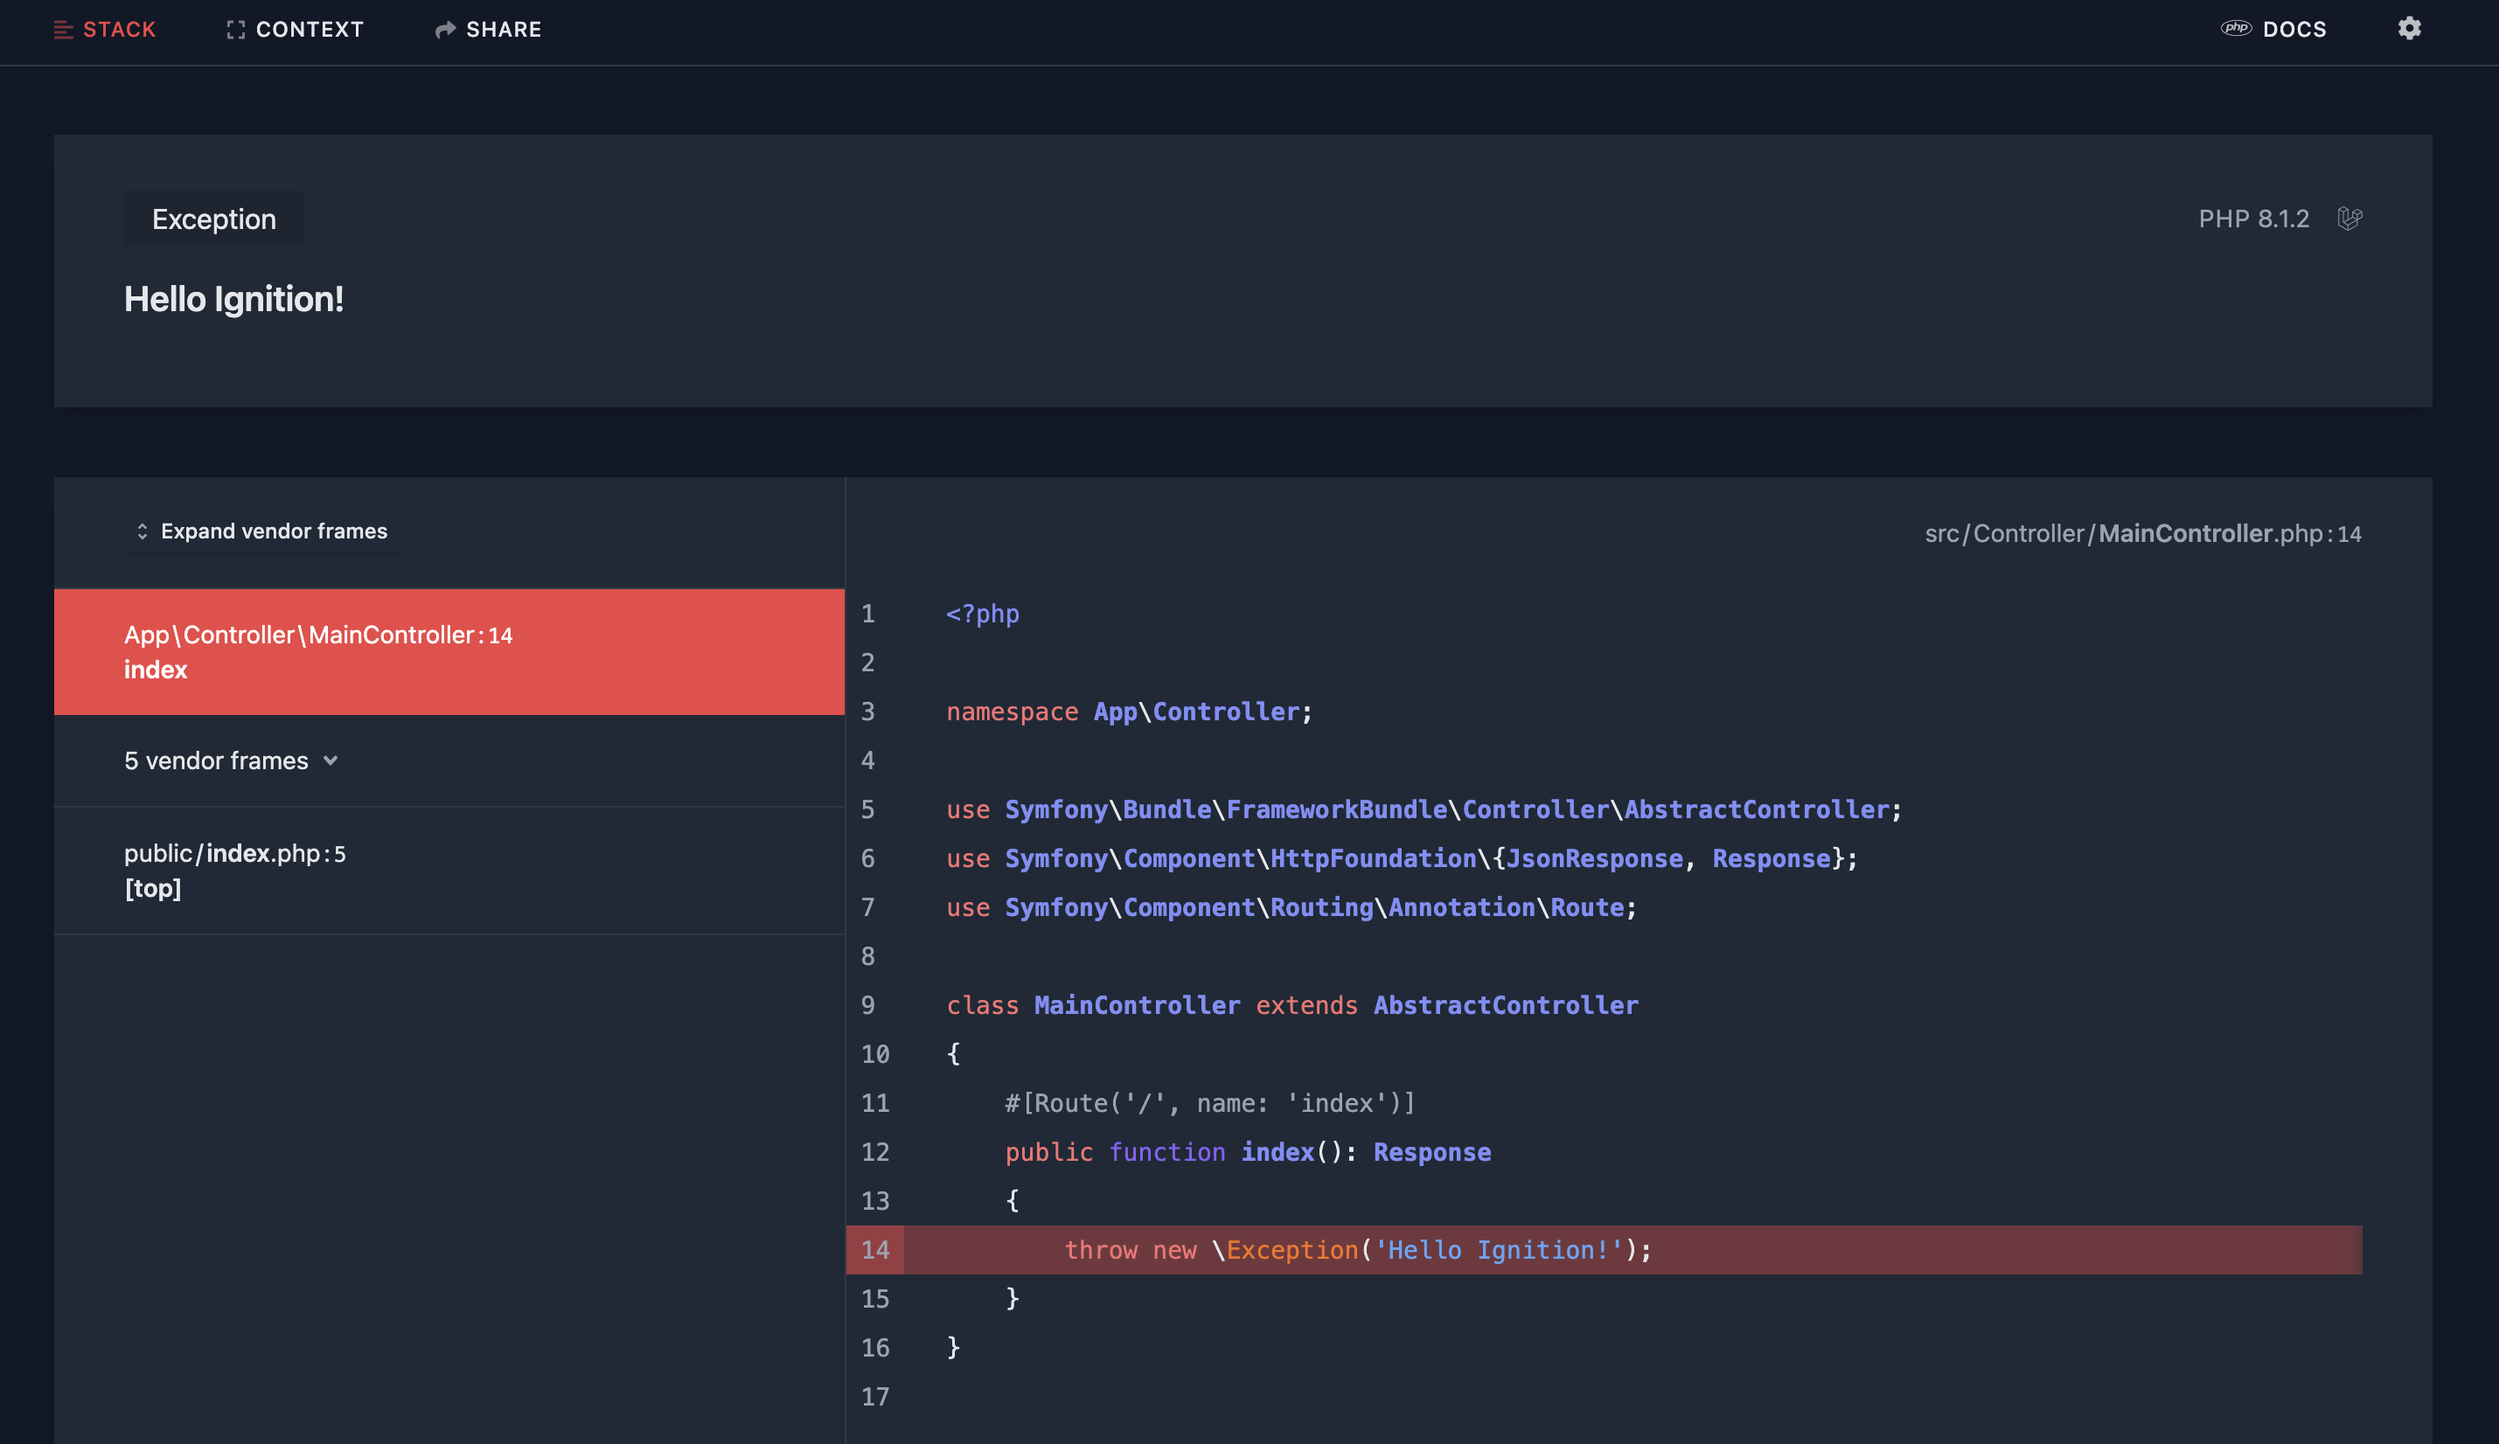
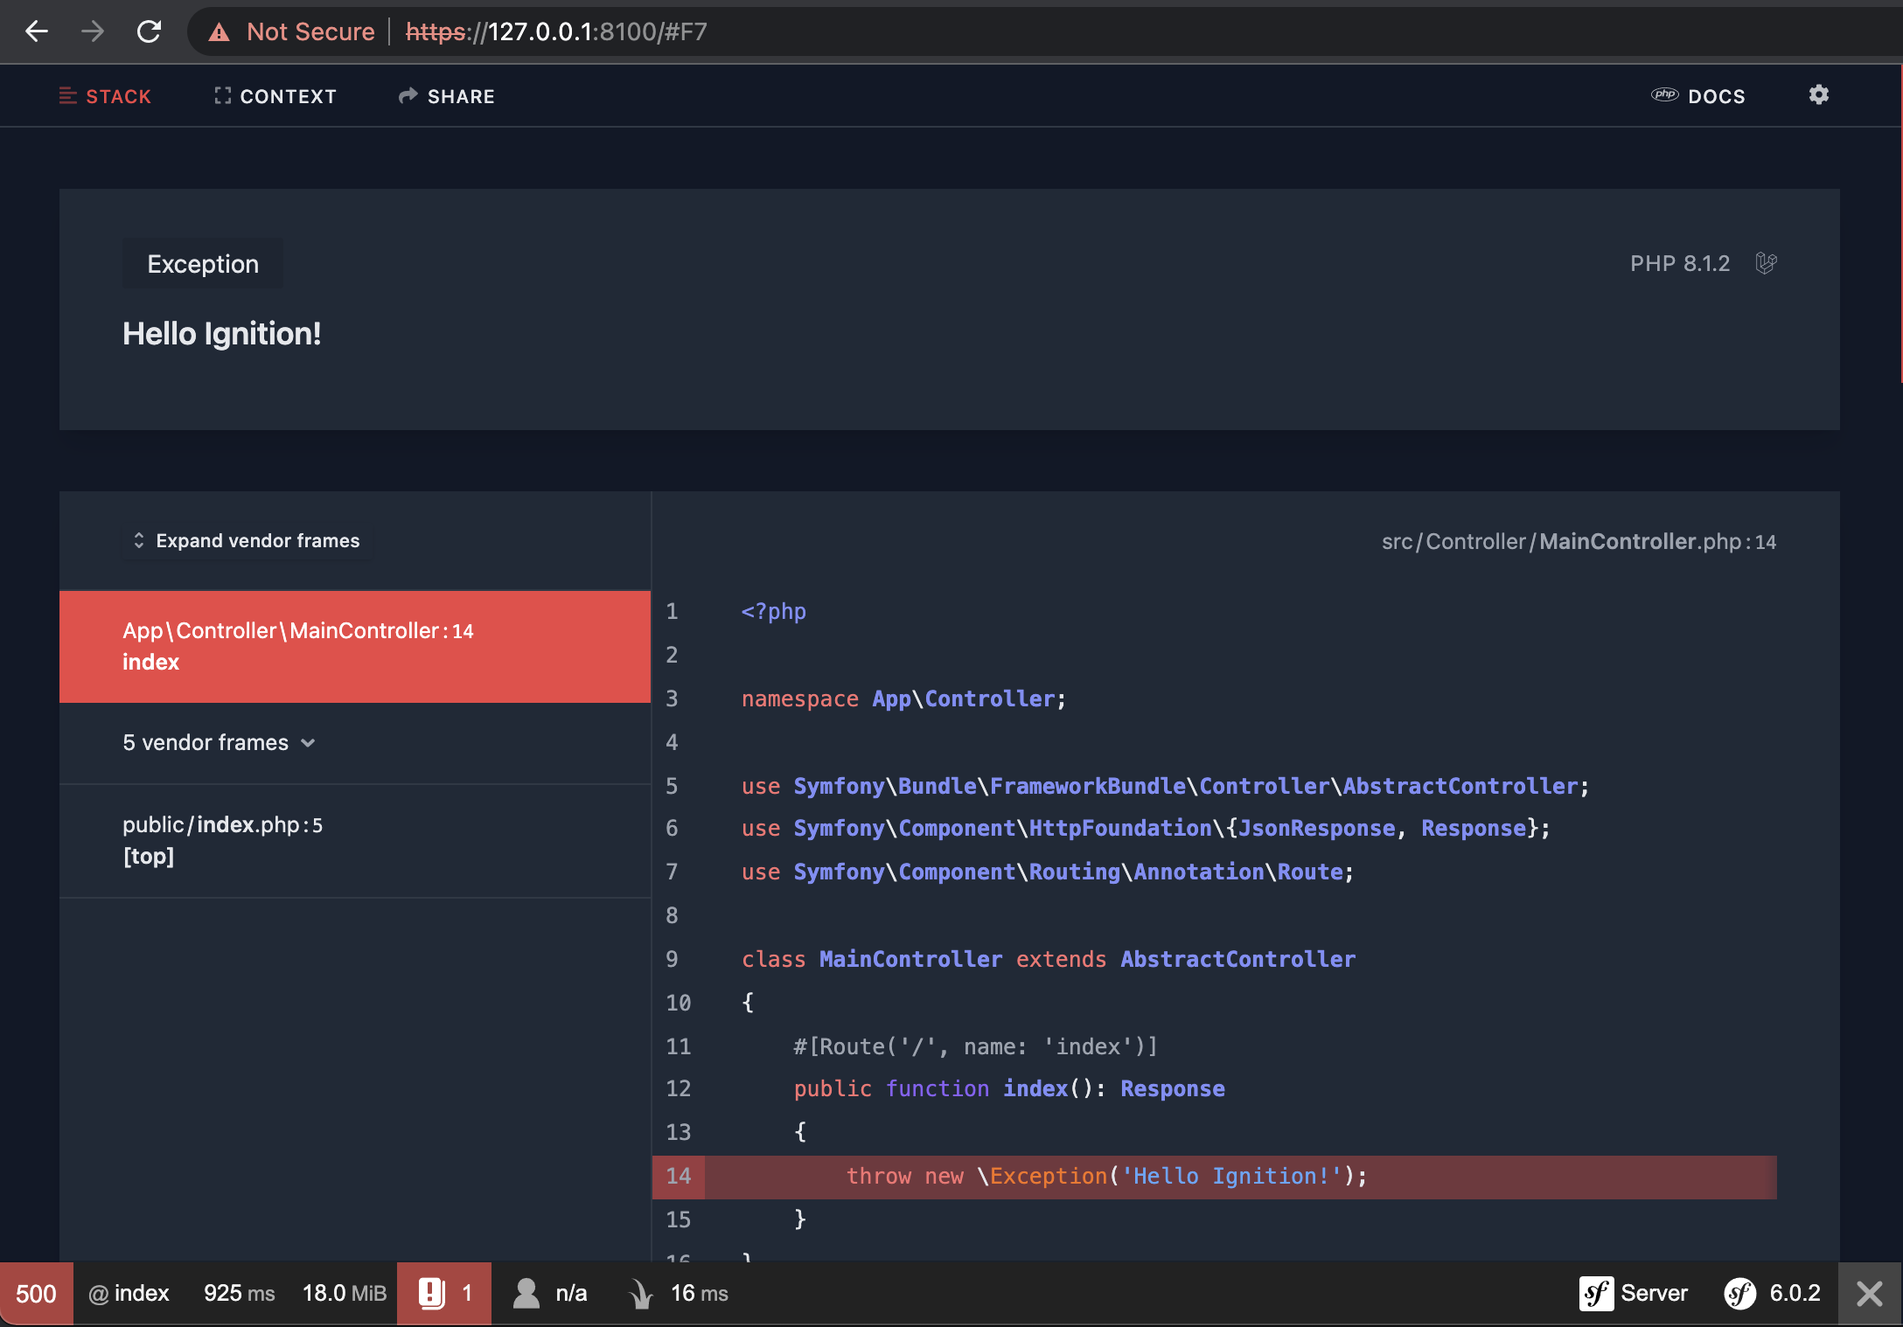
Maintain Symfony request lifecycle

diff --git a/src/Service/IgnitionErrorListener.php b/src/Service/IgnitionErrorListener.php
@@ -2,8 +2,10 @@
 
 namespace Spatie\SymfonyIgnitionBundle\Service;
 
+use ob_start, ob_get_contents, ob_end_clean;
 use Spatie\Ignition\Ignition;
 use Symfony\Component\EventDispatcher\EventSubscriberInterface;
+use Symfony\Component\HttpFoundation\Response;
 use Symfony\Component\HttpKernel\Event\ExceptionEvent;
 use Symfony\Component\HttpKernel\KernelEvents;
 
@@ -29,16 +31,14 @@ class IgnitionErrorListener implements EventSubscriberInterface
     {
         $error = $event->getThrowable();
 
-        /**
-         * @todo Capture ignition HTML response and return that as a Symfony
-         * response, instead of using Ignition's rendering. This will be needed
-         * for the Symfony debug toolbar to show up, and for other exception
-         * listeners to be called.
-         *
-         * $response = new \Symfony\Component\HttpFoundation\Response($ignitionOutput);
-         * $event->setResponse($response);
-         */
+        // Get the output from Ignition
+        ob_start();
         $this->ignition->handleException($error);
-        exit(1);
+        $output = ob_get_contents();
+        ob_end_clean();
+
+        // Return Ignition's output as a Symfony response
+        $response = new Response($output);
+        $event->setResponse($response);
     }
 }

diff --git a/README.md b/README.md
@@ -5,7 +5,7 @@
 [![Tests](https://github.com/spatie/symfony-ignition-bundle/actions/workflows/run-tests.yml/badge.svg?branch=main)](https://github.com/spatie/symfony-ignition-bundle/actions/workflows/run-tests.yml)
 [![Total Downloads](https://img.shields.io/packagist/dt/spatie/symfony-ignition-bundle.svg?style=flat-square)](https://packagist.org/packages/spatie/symfony-ignition-bundle)
 
-Use [Ignition](https://github.com/spatie/ignition) to render beautiful exceptions in Symfony.
+Replace Symfony's default exception pages with beautiful and informative [Ignition](https://github.com/spatie/ignition) pages.
 
 ## Installation
 
@@ -19,7 +19,7 @@ Enable the bundle in `config/bundles.php`:
 ```diff
  return [
      // ...
-+    Spatie\SymfonyIgnitionBundle\IgnitionBundle::class => ['all' => true],
++    Spatie\SymfonyIgnitionBundle\IgnitionBundle::class => ['dev' => true],
  ];
 
 ```
